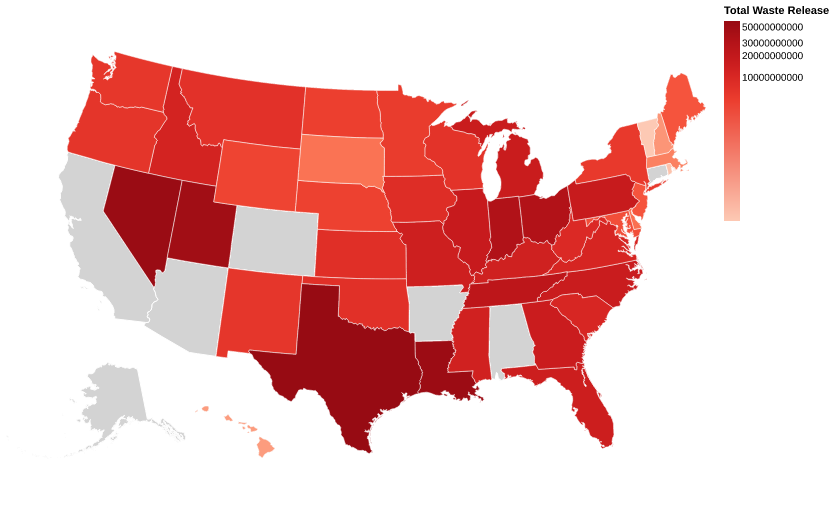
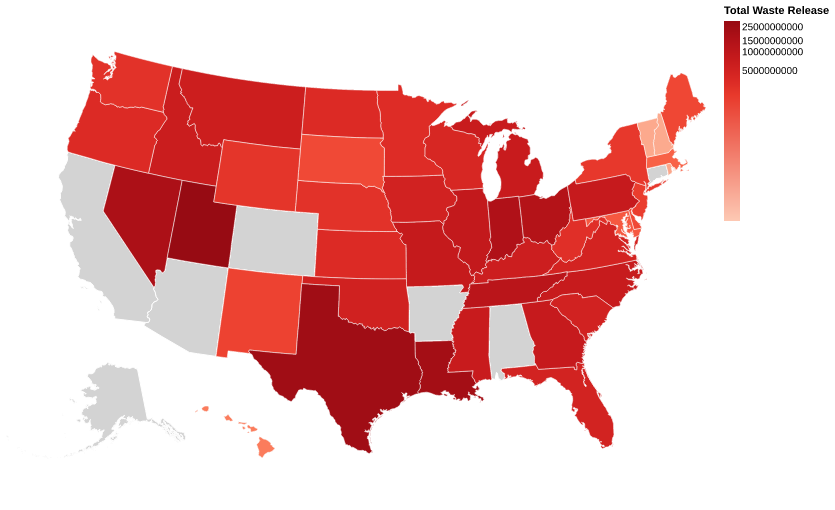
Fixed the query for Waste_By_Location, takes longer due to multijoins but outputs acceptable results.
updated queries.json with new queries.

updated the new maps.

diff --git a/Frontend/chart/total_waste_by_state.html b/Frontend/chart/total_waste_by_state.html
@@ -21,7 +21,7 @@
   <div id="vis"></div>
   <script>
     (function(vegaEmbed) {
-      var spec = {"config": {"view": {"continuousWidth": 300, "continuousHeight": 300}}, "layer": [{"mark": {"type": "geoshape", "fill": "lightgray", "stroke": "white"}, "projection": {"type": "albersUsa"}}, {"mark": {"type": "geoshape"}, "encoding": {"color": {"field": "total_release", "legend": {"format": ".0f", "tickCount": 5, "titleLimit": 500}, "scale": {"constant": 1, "scheme": "reds", "type": "symlog"}, "title": "Total Waste Release", "type": "quantitative"}, "stroke": {"condition": {"param": "param_5b36eb840a501a26", "value": "yellow", "empty": false}, "value": "white"}, "strokeWidth": {"condition": {"param": "param_5b36eb840a501a26", "value": 2, "empty": false}, "value": 0.5}, "tooltip": [{"field": "state_name", "title": "State:", "type": "nominal"}, {"field": "total_release", "title": "Total Waste:", "type": "quantitative"}]}, "name": "view_ea8d13bbc6b6c68a_1", "projection": {"type": "albersUsa"}, "transform": [{"lookup": "id", "from": {"data": {"name": "data-81f2d164197c14a456daba7c81c208c3"}, "key": "state_fips", "fields": ["total_release", "state_name"]}}]}], "data": {"url": "https://cdn.jsdelivr.net/npm/vega-datasets@v1.29.0/data/us-10m.json", "format": {"feature": "states", "type": "topojson"}}, "height": 500, "params": [{"name": "param_5b36eb840a501a26", "select": {"type": "point", "fields": ["id"], "on": "pointerover"}, "views": ["view_ea8d13bbc6b6c68a_1"]}], "width": 700, "$schema": "https://vega.github.io/schema/vega-lite/v6.4.1.json", "datasets": {"data-81f2d164197c14a456daba7c81c208c3": [{"state": "AK", "total_release": 532233754833.57996, "state_fips": "02", "state_name": "Alaska"}, {"state": "AL", "total_release": 136987657228.31, "state_fips": "01", "state_name": "Alabama"}, {"state": "AR", "total_release": 64085868025.770004, "state_fips": "05", "state_name": "Arkansas"}, {"state": "AS", "total_release": 27700447.41, "state_fips": "60", "state_name": "American Samoa"}, {"state": "AZ", "total_release": 180416415349.58, "state_fips": "04", "state_name": "Arizona"}, {"state": "CA", "total_release": 138682592239.5, "state_fips": "06", "state_name": "California"}, {"state": "CO", "total_release": 22836129673.87, "state_fips": "08", "state_name": "Colorado"}, {"state": "CT", "total_release": 8909709725.5, "state_fips": "09", "state_name": "Connecticut"}, {"state": "DE", "total_release": 11305886361.39, "state_fips": "10", "state_name": "Delaware"}, {"state": "FL", "total_release": 84528550985.77, "state_fips": "12", "state_name": "Florida"}, {"state": "GA", "total_release": 105112571457.99, "state_fips": "13", "state_name": "Georgia"}, {"state": "GU", "total_release": 269881826.91, "state_fips": "66", "state_name": "Guam"}, {"state": "HI", "total_release": 2257240297.58, "state_fips": "15", "state_name": "Hawaii"}, {"state": "IA", "total_release": 49320606559.68, "state_fips": "19", "state_name": "Iowa"}, {"state": "ID", "total_release": 50403858245.68, "state_fips": "16", "state_name": "Idaho"}, {"state": "IL", "total_release": 128312001023.8, "state_fips": "17", "state_name": "Illinois"}, {"state": "IN", "total_release": 211317573971.47, "state_fips": "18", "state_name": "Indiana"}, {"state": "KS", "total_release": 51156459367.64, "state_fips": "20", "state_name": "Kansas"}, {"state": "KY", "total_release": 87509119929.98, "state_fips": "21", "state_name": "Kentucky"}, {"state": "LA", "total_release": 315598112891.7, "state_fips": "22", "state_name": "Louisiana"}, {"state": "MA", "total_release": 13262387897.28, "state_fips": "25", "state_name": "Massachusetts"}, {"state": "MD", "total_release": 26340197606.93, "state_fips": "24", "state_name": "Maryland"}, {"state": "ME", "total_release": 21328413750.19, "state_fips": "23", "state_name": "Maine"}, {"state": "MI", "total_release": 106847164755.87, "state_fips": "26", "state_name": "Michigan"}, {"state": "MN", "total_release": 33099254583.72, "state_fips": "27", "state_name": "Minnesota"}, {"state": "MO", "total_release": 89614046895.47, "state_fips": "29", "state_name": "Missouri"}, {"state": "MP", "total_release": 4714878.9399999995, "state_fips": "69", "state_name": "Northern Mariana Islands"}, {"state": "MS", "total_release": 85789644899.63, "state_fips": "28", "state_name": "Mississippi"}, {"state": "MT", "total_release": 41372428052.87, "state_fips": "30", "state_name": "Montana"}, {"state": "NC", "total_release": 112572428335.31, "state_fips": "37", "state_name": "North Carolina"}, {"state": "ND", "total_release": 17602330986.489998, "state_fips": "38", "state_name": "North Dakota"}, {"state": "NE", "total_release": 29168432816.62, "state_fips": "31", "state_name": "Nebraska"}, {"state": "NH", "total_release": 4714879491.44, "state_fips": "33", "state_name": "New Hampshire"}, {"state": "NJ", "total_release": 26184959148.920002, "state_fips": "34", "state_name": "New Jersey"}, {"state": "NM", "total_release": 27275643831.91, "state_fips": "35", "state_name": "New Mexico"}, {"state": "NV", "total_release": 201139240871.30002, "state_fips": "32", "state_name": "Nevada"}, {"state": "NY", "total_release": 46073149555.32, "state_fips": "36", "state_name": "New York"}, {"state": "OH", "total_release": 222190815682.66998, "state_fips": "39", "state_name": "Ohio"}, {"state": "OK", "total_release": 45847945101.74, "state_fips": "40", "state_name": "Oklahoma"}, {"state": "OR", "total_release": 38858726549.07, "state_fips": "41", "state_name": "Oregon"}, {"state": "PA", "total_release": 135690447683.78, "state_fips": "42", "state_name": "Pennsylvania"}, {"state": "PR", "total_release": 8876026933.84, "state_fips": "72", "state_name": "Puerto Rico"}, {"state": "RI", "total_release": 1792343513.28, "state_fips": "44", "state_name": "Rhode Island"}, {"state": "SC", "total_release": 73383059135.17, "state_fips": "45", "state_name": "South Carolina"}, {"state": "SD", "total_release": 7356623867.3, "state_fips": "46", "state_name": "South Dakota"}, {"state": "TN", "total_release": 158551318326.74, "state_fips": "47", "state_name": "Tennessee"}, {"state": "TX", "total_release": 379906241403.04, "state_fips": "48", "state_name": "Texas"}, {"state": "UT", "total_release": 250428623641.63998, "state_fips": "49", "state_name": "Utah"}, {"state": "VA", "total_release": 73505065086.21, "state_fips": "51", "state_name": "Virginia"}, {"state": "VI", "total_release": 1737846404.5, "state_fips": "78", "state_name": "Virgin Islands"}, {"state": "VT", "total_release": 695617966.35, "state_fips": "50", "state_name": "Vermont"}, {"state": "WA", "total_release": 39144059113.39, "state_fips": "53", "state_name": "Washington"}, {"state": "WI", "total_release": 51787866628.43, "state_fips": "55", "state_name": "Wisconsin"}, {"state": "WV", "total_release": 54160682853.159996, "state_fips": "54", "state_name": "West Virginia"}, {"state": "WY", "total_release": 18072922465.01, "state_fips": "56", "state_name": "Wyoming"}]}};
+      var spec = {"config": {"view": {"continuousWidth": 300, "continuousHeight": 300}}, "layer": [{"mark": {"type": "geoshape", "fill": "lightgray", "stroke": "white"}, "projection": {"type": "albersUsa"}}, {"mark": {"type": "geoshape"}, "encoding": {"color": {"field": "total_release", "legend": {"format": ".0f", "tickCount": 5, "titleLimit": 500}, "scale": {"constant": 1, "scheme": "reds", "type": "symlog"}, "title": "Total Waste Release", "type": "quantitative"}, "stroke": {"condition": {"param": "param_5b36eb840a501a26", "value": "yellow", "empty": false}, "value": "white"}, "strokeWidth": {"condition": {"param": "param_5b36eb840a501a26", "value": 2, "empty": false}, "value": 0.5}, "tooltip": [{"field": "state_name", "title": "State:", "type": "nominal"}, {"field": "total_release", "title": "Total Waste:", "type": "quantitative"}]}, "name": "view_d0466f27e8eddf01_1", "projection": {"type": "albersUsa"}, "transform": [{"lookup": "id", "from": {"data": {"name": "data-b6bd36c32c3ac281cfcf19f331608935"}, "key": "state_fips", "fields": ["total_release", "state_name"]}}]}], "data": {"url": "https://cdn.jsdelivr.net/npm/vega-datasets@v1.29.0/data/us-10m.json", "format": {"feature": "states", "type": "topojson"}}, "height": 500, "params": [{"name": "param_5b36eb840a501a26", "select": {"type": "point", "fields": ["id"], "on": "pointerover"}, "views": ["view_d0466f27e8eddf01_1"]}], "width": 700, "$schema": "https://vega.github.io/schema/vega-lite/v6.4.1.json", "datasets": {"data-b6bd36c32c3ac281cfcf19f331608935": [{"state": "AK", "total_release": 532230827764.16, "state_fips": "02", "state_name": "Alaska"}, {"state": "AL", "total_release": 136987657228.98, "state_fips": "01", "state_name": "Alabama"}, {"state": "AR", "total_release": 64085868026.65, "state_fips": "05", "state_name": "Arkansas"}, {"state": "AS", "total_release": 26949134.580000002, "state_fips": "60", "state_name": "American Samoa"}, {"state": "AZ", "total_release": 180416415000.06, "state_fips": "04", "state_name": "Arizona"}, {"state": "CA", "total_release": 138682015890.65, "state_fips": "06", "state_name": "California"}, {"state": "CO", "total_release": 22836102878.02, "state_fips": "08", "state_name": "Colorado"}, {"state": "CT", "total_release": 8909697740.09, "state_fips": "09", "state_name": "Connecticut"}, {"state": "DE", "total_release": 11305886361.42, "state_fips": "10", "state_name": "Delaware"}, {"state": "FL", "total_release": 84528525115.64, "state_fips": "12", "state_name": "Florida"}, {"state": "GA", "total_release": 105087463798.26, "state_fips": "13", "state_name": "Georgia"}, {"state": "GU", "total_release": 269881826.88, "state_fips": "66", "state_name": "Guam"}, {"state": "HI", "total_release": 2257240297.86, "state_fips": "15", "state_name": "Hawaii"}, {"state": "IA", "total_release": 49320597530.08, "state_fips": "19", "state_name": "Iowa"}, {"state": "ID", "total_release": 50403854191.65, "state_fips": "16", "state_name": "Idaho"}, {"state": "IL", "total_release": 128307865828.54, "state_fips": "17", "state_name": "Illinois"}, {"state": "IN", "total_release": 211311647319.92, "state_fips": "18", "state_name": "Indiana"}, {"state": "KS", "total_release": 51156459367.909996, "state_fips": "20", "state_name": "Kansas"}, {"state": "KY", "total_release": 87418980984.6, "state_fips": "21", "state_name": "Kentucky"}, {"state": "LA", "total_release": 314973408620.75, "state_fips": "22", "state_name": "Louisiana"}, {"state": "MA", "total_release": 13261592209.77, "state_fips": "25", "state_name": "Massachusetts"}, {"state": "MD", "total_release": 26340197607.05, "state_fips": "24", "state_name": "Maryland"}, {"state": "ME", "total_release": 21328413750.26, "state_fips": "23", "state_name": "Maine"}, {"state": "MI", "total_release": 106837315566.24, "state_fips": "26", "state_name": "Michigan"}, {"state": "MN", "total_release": 33099246141.64, "state_fips": "27", "state_name": "Minnesota"}, {"state": "MO", "total_release": 89608048069.95, "state_fips": "29", "state_name": "Missouri"}, {"state": "MP", "total_release": 4637667.9, "state_fips": "69", "state_name": "Northern Mariana Islands"}, {"state": "MS", "total_release": 85782786784.28, "state_fips": "28", "state_name": "Mississippi"}, {"state": "MT", "total_release": 41372428053.0, "state_fips": "30", "state_name": "Montana"}, {"state": "NC", "total_release": 112572407136.39, "state_fips": "37", "state_name": "North Carolina"}, {"state": "ND", "total_release": 17602330986.54, "state_fips": "38", "state_name": "North Dakota"}, {"state": "NE", "total_release": 29168432066.84, "state_fips": "31", "state_name": "Nebraska"}, {"state": "NH", "total_release": 4714879491.53, "state_fips": "33", "state_name": "New Hampshire"}, {"state": "NJ", "total_release": 26184949977.21, "state_fips": "34", "state_name": "New Jersey"}, {"state": "NM", "total_release": 27275235420.36, "state_fips": "35", "state_name": "New Mexico"}, {"state": "NV", "total_release": 201139240871.24, "state_fips": "32", "state_name": "Nevada"}, {"state": "NY", "total_release": 46072666035.979996, "state_fips": "36", "state_name": "New York"}, {"state": "OH", "total_release": 222187331861.8, "state_fips": "39", "state_name": "Ohio"}, {"state": "OK", "total_release": 45847935174.3, "state_fips": "40", "state_name": "Oklahoma"}, {"state": "OR", "total_release": 38858726549.82, "state_fips": "41", "state_name": "Oregon"}, {"state": "PA", "total_release": 135681043580.55, "state_fips": "42", "state_name": "Pennsylvania"}, {"state": "PR", "total_release": 8875031168.8, "state_fips": "72", "state_name": "Puerto Rico"}, {"state": "RI", "total_release": 1792216513.42, "state_fips": "44", "state_name": "Rhode Island"}, {"state": "SC", "total_release": 73230911183.21, "state_fips": "45", "state_name": "South Carolina"}, {"state": "SD", "total_release": 7356613011.5199995, "state_fips": "46", "state_name": "South Dakota"}, {"state": "TN", "total_release": 158510980853.24, "state_fips": "47", "state_name": "Tennessee"}, {"state": "TX", "total_release": 379906085707.92, "state_fips": "48", "state_name": "Texas"}, {"state": "UT", "total_release": 250422064728.69, "state_fips": "49", "state_name": "Utah"}, {"state": "VA", "total_release": 73503473995.83, "state_fips": "51", "state_name": "Virginia"}, {"state": "VI", "total_release": 1691241248.29, "state_fips": "78", "state_name": "Virgin Islands"}, {"state": "VT", "total_release": 695279214.91, "state_fips": "50", "state_name": "Vermont"}, {"state": "WA", "total_release": 39144059113.46, "state_fips": "53", "state_name": "Washington"}, {"state": "WI", "total_release": 51787599043.3, "state_fips": "55", "state_name": "Wisconsin"}, {"state": "WV", "total_release": 54160682853.62, "state_fips": "54", "state_name": "West Virginia"}, {"state": "WY", "total_release": 18072921465.18, "state_fips": "56", "state_name": "Wyoming"}]}};
       var embedOpt = {"mode": "vega-lite"};
 
       function showError(el, error){

diff --git a/Frontend/chart/total_waste_by_state_2020s.html b/Frontend/chart/total_waste_by_state_2020s.html
@@ -21,7 +21,7 @@
   <div id="vis"></div>
   <script>
     (function(vegaEmbed) {
-      var spec = {"config": {"view": {"continuousWidth": 300, "continuousHeight": 300}}, "layer": [{"mark": {"type": "geoshape", "fill": "lightgray", "stroke": "white"}, "projection": {"type": "albersUsa"}}, {"mark": {"type": "geoshape"}, "encoding": {"color": {"field": "total_release", "legend": {"format": ".0f", "tickCount": 5, "titleLimit": 500}, "scale": {"constant": 1, "scheme": "reds", "type": "symlog"}, "title": "Total Waste Release", "type": "quantitative"}, "stroke": {"condition": {"param": "param_5b36eb840a501a26", "value": "yellow", "empty": false}, "value": "white"}, "strokeWidth": {"condition": {"param": "param_5b36eb840a501a26", "value": 2, "empty": false}, "value": 0.5}, "tooltip": [{"field": "state_name", "title": "State:", "type": "nominal"}, {"field": "total_release", "title": "Total Waste:", "type": "quantitative"}]}, "name": "view_31daf7cb4955fca5_1", "projection": {"type": "albersUsa"}, "transform": [{"lookup": "id", "from": {"data": {"name": "data-23fdf17f476e70f37688e117fb106c83"}, "key": "state_fips", "fields": ["total_release", "state_name"]}}]}], "data": {"url": "https://cdn.jsdelivr.net/npm/vega-datasets@v1.29.0/data/us-10m.json", "format": {"feature": "states", "type": "topojson"}}, "height": 500, "params": [{"name": "param_5b36eb840a501a26", "select": {"type": "point", "fields": ["id"], "on": "pointerover"}, "views": ["view_31daf7cb4955fca5_1"]}], "width": 700, "$schema": "https://vega.github.io/schema/vega-lite/v6.4.1.json", "datasets": {"data-23fdf17f476e70f37688e117fb106c83": [{"state": "AK", "total_release": 117756567600.0, "state_fips": "02", "state_name": "Alaska"}, {"state": "AL", "total_release": 19026882937.0, "state_fips": "01", "state_name": "Alabama"}, {"state": "AR", "total_release": 9786096281.0, "state_fips": "05", "state_name": "Arkansas"}, {"state": "AS", "total_release": 4507877.0, "state_fips": "60", "state_name": "American Samoa"}, {"state": "AZ", "total_release": 29847239138.0, "state_fips": "04", "state_name": "Arizona"}, {"state": "CA", "total_release": 8372255328.0, "state_fips": "06", "state_name": "California"}, {"state": "CO", "total_release": 4456303470.0, "state_fips": "08", "state_name": "Colorado"}, {"state": "CT", "total_release": 788857703.0, "state_fips": "09", "state_name": "Connecticut"}, {"state": "DE", "total_release": 1320776240.0, "state_fips": "10", "state_name": "Delaware"}, {"state": "FL", "total_release": 15291007399.0, "state_fips": "12", "state_name": "Florida"}, {"state": "GA", "total_release": 16252523989.0, "state_fips": "13", "state_name": "Georgia"}, {"state": "GU", "total_release": 54017154.0, "state_fips": "66", "state_name": "Guam"}, {"state": "HI", "total_release": 392202430.0, "state_fips": "15", "state_name": "Hawaii"}, {"state": "IA", "total_release": 8208561002.0, "state_fips": "19", "state_name": "Iowa"}, {"state": "ID", "total_release": 12102129411.0, "state_fips": "16", "state_name": "Idaho"}, {"state": "IL", "total_release": 17794376567.0, "state_fips": "17", "state_name": "Illinois"}, {"state": "IN", "total_release": 33444482009.0, "state_fips": "18", "state_name": "Indiana"}, {"state": "KS", "total_release": 7833626693.0, "state_fips": "20", "state_name": "Kansas"}, {"state": "KY", "total_release": 13486813372.0, "state_fips": "21", "state_name": "Kentucky"}, {"state": "LA", "total_release": 54099496278.0, "state_fips": "22", "state_name": "Louisiana"}, {"state": "MA", "total_release": 838905527.0, "state_fips": "25", "state_name": "Massachusetts"}, {"state": "MD", "total_release": 3217454824.0, "state_fips": "24", "state_name": "Maryland"}, {"state": "ME", "total_release": 2760530664.0, "state_fips": "23", "state_name": "Maine"}, {"state": "MI", "total_release": 16718904476.0, "state_fips": "26", "state_name": "Michigan"}, {"state": "MN", "total_release": 5281979154.0, "state_fips": "27", "state_name": "Minnesota"}, {"state": "MO", "total_release": 14634422429.0, "state_fips": "29", "state_name": "Missouri"}, {"state": "MP", "total_release": 916185.0, "state_fips": "69", "state_name": "Northern Mariana Islands"}, {"state": "MS", "total_release": 13447762155.0, "state_fips": "28", "state_name": "Mississippi"}, {"state": "MT", "total_release": 7197554306.0, "state_fips": "30", "state_name": "Montana"}, {"state": "NC", "total_release": 16395352689.0, "state_fips": "37", "state_name": "North Carolina"}, {"state": "ND", "total_release": 4742582818.0, "state_fips": "38", "state_name": "North Dakota"}, {"state": "NE", "total_release": 4498847143.0, "state_fips": "31", "state_name": "Nebraska"}, {"state": "NH", "total_release": 468943200.0, "state_fips": "33", "state_name": "New Hampshire"}, {"state": "NJ", "total_release": 2696943620.0, "state_fips": "34", "state_name": "New Jersey"}, {"state": "NM", "total_release": 6187975339.0, "state_fips": "35", "state_name": "New Mexico"}, {"state": "NV", "total_release": 56964801173.0, "state_fips": "32", "state_name": "Nevada"}, {"state": "NY", "total_release": 5675082339.0, "state_fips": "36", "state_name": "New York"}, {"state": "OH", "total_release": 32243876439.0, "state_fips": "39", "state_name": "Ohio"}, {"state": "OK", "total_release": 7493686781.0, "state_fips": "40", "state_name": "Oklahoma"}, {"state": "OR", "total_release": 6545992128.0, "state_fips": "41", "state_name": "Oregon"}, {"state": "PA", "total_release": 17695492211.0, "state_fips": "42", "state_name": "Pennsylvania"}, {"state": "PR", "total_release": 1326827721.0, "state_fips": "72", "state_name": "Puerto Rico"}, {"state": "RI", "total_release": 127038355.0, "state_fips": "44", "state_name": "Rhode Island"}, {"state": "SC", "total_release": 10487865952.0, "state_fips": "45", "state_name": "South Carolina"}, {"state": "SD", "total_release": 1232199823.0, "state_fips": "46", "state_name": "South Dakota"}, {"state": "TN", "total_release": 23732983406.0, "state_fips": "47", "state_name": "Tennessee"}, {"state": "TX", "total_release": 61417155429.0, "state_fips": "48", "state_name": "Texas"}, {"state": "UT", "total_release": 47924439639.0, "state_fips": "49", "state_name": "Utah"}, {"state": "VA", "total_release": 11057726499.0, "state_fips": "51", "state_name": "Virginia"}, {"state": "VI", "total_release": 236651998.0, "state_fips": "78", "state_name": "Virgin Islands"}, {"state": "VT", "total_release": 103068796.0, "state_fips": "50", "state_name": "Vermont"}, {"state": "WA", "total_release": 5996482519.0, "state_fips": "53", "state_name": "Washington"}, {"state": "WI", "total_release": 6861516645.0, "state_fips": "55", "state_name": "Wisconsin"}, {"state": "WV", "total_release": 9343474232.0, "state_fips": "54", "state_name": "West Virginia"}, {"state": "WY", "total_release": 4196075281.0, "state_fips": "56", "state_name": "Wyoming"}]}};
+      var spec = {"config": {"view": {"continuousWidth": 300, "continuousHeight": 300}}, "layer": [{"mark": {"type": "geoshape", "fill": "lightgray", "stroke": "white"}, "projection": {"type": "albersUsa"}}, {"mark": {"type": "geoshape"}, "encoding": {"color": {"field": "total_release", "legend": {"format": ".0f", "tickCount": 5, "titleLimit": 500}, "scale": {"constant": 1, "scheme": "reds", "type": "symlog"}, "title": "Total Waste Release", "type": "quantitative"}, "stroke": {"condition": {"param": "param_5b36eb840a501a26", "value": "yellow", "empty": false}, "value": "white"}, "strokeWidth": {"condition": {"param": "param_5b36eb840a501a26", "value": 2, "empty": false}, "value": 0.5}, "tooltip": [{"field": "state_name", "title": "State:", "type": "nominal"}, {"field": "total_release", "title": "Total Waste:", "type": "quantitative"}]}, "name": "view_f3181c249cfd358b_1", "projection": {"type": "albersUsa"}, "transform": [{"lookup": "id", "from": {"data": {"name": "data-5b20b2e67c415a5cdab85e125888b9c1"}, "key": "state_fips", "fields": ["total_release", "state_name"]}}]}], "data": {"url": "https://cdn.jsdelivr.net/npm/vega-datasets@v1.29.0/data/us-10m.json", "format": {"feature": "states", "type": "topojson"}}, "height": 500, "params": [{"name": "param_5b36eb840a501a26", "select": {"type": "point", "fields": ["id"], "on": "pointerover"}, "views": ["view_f3181c249cfd358b_1"]}], "width": 700, "$schema": "https://vega.github.io/schema/vega-lite/v6.4.1.json", "datasets": {"data-5b20b2e67c415a5cdab85e125888b9c1": [{"state": "AK", "total_release": 103341702722.16, "state_fips": "02", "state_name": "Alaska"}, {"state": "AL", "total_release": 12197609289.46, "state_fips": "01", "state_name": "Alabama"}, {"state": "AR", "total_release": 6450160762.22, "state_fips": "05", "state_name": "Arkansas"}, {"state": "AS", "total_release": 7039293.82, "state_fips": "60", "state_name": "American Samoa"}, {"state": "AZ", "total_release": 13147023149.92, "state_fips": "04", "state_name": "Arizona"}, {"state": "CA", "total_release": 5524185701.94, "state_fips": "06", "state_name": "California"}, {"state": "CO", "total_release": 2828945329.03, "state_fips": "08", "state_name": "Colorado"}, {"state": "CT", "total_release": 264621479.99, "state_fips": "09", "state_name": "Connecticut"}, {"state": "DE", "total_release": 1227760372.96, "state_fips": "10", "state_name": "Delaware"}, {"state": "FL", "total_release": 4932101096.0199995, "state_fips": "12", "state_name": "Florida"}, {"state": "GA", "total_release": 7612953309.24, "state_fips": "13", "state_name": "Georgia"}, {"state": "GU", "total_release": 48578116.49, "state_fips": "66", "state_name": "Guam"}, {"state": "HI", "total_release": 262608805.67, "state_fips": "15", "state_name": "Hawaii"}, {"state": "IA", "total_release": 5178057707.87, "state_fips": "19", "state_name": "Iowa"}, {"state": "ID", "total_release": 6616262452.48, "state_fips": "16", "state_name": "Idaho"}, {"state": "IL", "total_release": 8424159171.72, "state_fips": "17", "state_name": "Illinois"}, {"state": "IN", "total_release": 15906088823.24, "state_fips": "18", "state_name": "Indiana"}, {"state": "KS", "total_release": 3468249308.57, "state_fips": "20", "state_name": "Kansas"}, {"state": "KY", "total_release": 6243881278.19, "state_fips": "21", "state_name": "Kentucky"}, {"state": "LA", "total_release": 21989717186.22, "state_fips": "22", "state_name": "Louisiana"}, {"state": "MA", "total_release": 581010272.44, "state_fips": "25", "state_name": "Massachusetts"}, {"state": "MD", "total_release": 762048208.96, "state_fips": "24", "state_name": "Maryland"}, {"state": "ME", "total_release": 1315068104.64, "state_fips": "23", "state_name": "Maine"}, {"state": "MI", "total_release": 7152741039.68, "state_fips": "26", "state_name": "Michigan"}, {"state": "MN", "total_release": 3187452698.75, "state_fips": "27", "state_name": "Minnesota"}, {"state": "MO", "total_release": 7897072308.150001, "state_fips": "29", "state_name": "Missouri"}, {"state": "MP", "total_release": 458568.54, "state_fips": "69", "state_name": "Northern Mariana Islands"}, {"state": "MS", "total_release": 7319341348.37, "state_fips": "28", "state_name": "Mississippi"}, {"state": "MT", "total_release": 6343986272.780001, "state_fips": "30", "state_name": "Montana"}, {"state": "NC", "total_release": 7450509032.44, "state_fips": "37", "state_name": "North Carolina"}, {"state": "ND", "total_release": 3426778053.31, "state_fips": "38", "state_name": "North Dakota"}, {"state": "NE", "total_release": 2578815366.51, "state_fips": "31", "state_name": "Nebraska"}, {"state": "NH", "total_release": 58536865.46, "state_fips": "33", "state_name": "New Hampshire"}, {"state": "NJ", "total_release": 1783885660.68, "state_fips": "34", "state_name": "New Jersey"}, {"state": "NM", "total_release": 1492439858.35, "state_fips": "35", "state_name": "New Mexico"}, {"state": "NV", "total_release": 17675392217.37, "state_fips": "32", "state_name": "Nevada"}, {"state": "NY", "total_release": 2108909983.96, "state_fips": "36", "state_name": "New York"}, {"state": "OH", "total_release": 14218340249.8, "state_fips": "39", "state_name": "Ohio"}, {"state": "OK", "total_release": 5342623190.98, "state_fips": "40", "state_name": "Oklahoma"}, {"state": "OR", "total_release": 3486918521.38, "state_fips": "41", "state_name": "Oregon"}, {"state": "PA", "total_release": 7705952482.72, "state_fips": "42", "state_name": "Pennsylvania"}, {"state": "PR", "total_release": 497705622.16, "state_fips": "72", "state_name": "Puerto Rico"}, {"state": "RI", "total_release": 66185155.45, "state_fips": "44", "state_name": "Rhode Island"}, {"state": "SC", "total_release": 5103636997.17, "state_fips": "45", "state_name": "South Carolina"}, {"state": "SD", "total_release": 1227543673.97, "state_fips": "46", "state_name": "South Dakota"}, {"state": "TN", "total_release": 11475741406.550001, "state_fips": "47", "state_name": "Tennessee"}, {"state": "TX", "total_release": 24497803394.670002, "state_fips": "48", "state_name": "Texas"}, {"state": "UT", "total_release": 31498359805.670002, "state_fips": "49", "state_name": "Utah"}, {"state": "VA", "total_release": 4896870205.55, "state_fips": "51", "state_name": "Virginia"}, {"state": "VI", "total_release": 20068354.26, "state_fips": "78", "state_name": "Virgin Islands"}, {"state": "VT", "total_release": 60384200.010000005, "state_fips": "50", "state_name": "Vermont"}, {"state": "WA", "total_release": 2611115083.5, "state_fips": "53", "state_name": "Washington"}, {"state": "WI", "total_release": 4101510871.9, "state_fips": "55", "state_name": "Wisconsin"}, {"state": "WV", "total_release": 2861366271.6, "state_fips": "54", "state_name": "West Virginia"}, {"state": "WY", "total_release": 2346258226.24, "state_fips": "56", "state_name": "Wyoming"}]}};
       var embedOpt = {"mode": "vega-lite"};
 
       function showError(el, error){

diff --git a/Frontend/save_queries_to_json.py b/Frontend/save_queries_to_json.py
@@ -3,53 +3,55 @@ import json
 queries = {
     "Waste_By_Location":
  """
-    WITH release_totals AS (
+        WITH waste_data AS (
             SELECT 
-                trf.tri_facility_id,
-                ROUND(SUM(tft.total_offsite_release::NUMERIC + tft.total_onsite_release::NUMERIC), 2) AS Total_Release
-            FROM tri_form_total tft
-            JOIN tri_reporting_form trf ON tft.doc_ctrl_num = trf.doc_ctrl_num
-            GROUP BY trf.tri_facility_id
-        ),
-    merge_release_totals AS(
-        SELECT
-            tfh.city,
-            MAX(tfh.county) as county,
-            tfh.state,
-            rt.Total_Release
-        FROM release_totals rt
-        JOIN tri_facility_history tfh ON rt.tri_facility_id = tfh.tri_facility_id
-        GROUP BY tfh.city, tfh.state, rt.Total_Release
-        ORDER BY rt.Total_Release DESC
-    )
-    Select * From merge_release_totals;
+                tfh.city,
+                tfh.county,
+                tfh.state,
+                trf.doc_ctrl_num,
+                trf.reporting_year,
+                ROUND(SUM(tft.total_offsite_release::NUMERIC + tft.total_onsite_release::NUMERIC), 2) AS total_release
+            FROM tri_reporting_form trf
+            JOIN tri_facility_history tfh ON trf.tri_facility_id = tfh.tri_facility_id
+            JOIN tri_form_total tft ON trf.doc_ctrl_num = tft.doc_ctrl_num
+            GROUP BY tfh.city, tfh.county, tfh.state, trf.doc_ctrl_num, trf.reporting_year
+            Order By total_release DESC
+        )
+        SELECT 
+            city,
+            county,
+            state,
+            SUM(total_release) AS total_release
+        FROM waste_data
+        GROUP BY city, county, state
+        ORDER BY total_release DESC;
 """,
     
     "Waste_By_Location_2020s": 
     """
-        WITH reports_after_2020 AS(
-            Select trf.doc_ctrl_num, tfh.city, tfh.county, tfh.state
+        WITH waste_data AS (
+            SELECT 
+                tfh.city,
+                tfh.county,
+                tfh.state,
+                trf.doc_ctrl_num,
+                trf.reporting_year,
+                ROUND(SUM(tft.total_offsite_release::NUMERIC + tft.total_onsite_release::NUMERIC), 2) AS total_release
             FROM tri_reporting_form trf
             JOIN tri_facility_history tfh ON trf.tri_facility_id = tfh.tri_facility_id
-            Where tfh.create_date >= '2020-01-01'
-        ),
-        total_waste_after_2020 AS(
-            Select trf.doc_ctrl_num,
-            ROUND(SUM(tft.total_offsite_release::NUMERIC + tft.total_onsite_release::NUMERIC),2) AS Total_Release
-            From tri_reporting_form trf
-            Join tri_form_total tft ON trf.doc_ctrl_num = tft.doc_ctrl_num
-            Where trf.reporting_year >= 2020
-            Group BY trf.doc_ctrl_num
+            JOIN tri_form_total tft ON trf.doc_ctrl_num = tft.doc_ctrl_num
+            WHERE trf.reporting_year >= 2020
+            GROUP BY tfh.city, tfh.county, tfh.state, trf.doc_ctrl_num, trf.reporting_year
+            Order By total_release DESC
         )
-        Select
-        ra.city,
-        ra.county,
-        ra.state,
-        SUM(twa.Total_Release) AS Total_Release
-        FROM reports_after_2020 ra 
-        JOIN total_waste_after_2020 twa ON ra.doc_ctrl_num = twa.doc_ctrl_num
-        Group BY ra.city, ra.county, ra.state
-        Order By Total_Release DESC;
+        SELECT 
+            city,
+            county,
+            state,
+            SUM(total_release) AS total_release
+        FROM waste_data
+        GROUP BY city, county, state
+        ORDER BY total_release DESC;
     """,
 
     "Total_Waste_Throughout_top_10": """

diff --git a/Frontend/TRI_analysis.py b/Frontend/TRI_analysis.py
@@ -69,10 +69,15 @@ def total_waste_by_state_throughout_or_After_2020(choice = ""):
         state_waste_df = pd.read_sql(queries["Waste_By_Location"], con=engine)
     print(state_waste_df.columns.to_list())
     state_waste_df = state_waste_df.drop(columns = ['city', 'county'])
-    state_waste_df = state_waste_df.groupby('state').agg({'total_release' : 'sum'}).reset_index()
+    state_waste_df = state_waste_df.drop_duplicates()
+
+    state_waste_df = state_waste_df.groupby('state')['total_release'].sum().reset_index()
 
     state_waste_df['state_fips'] = state_waste_df['state'].apply(lambda x:states.lookup(str(x)).fips if states.lookup(str(x)) else pd.NA)
     state_waste_df['state_name'] = state_waste_df['state_fips'].apply(lambda x:states.lookup(str(x)).name if states.lookup(str(x)) else pd.NA)
+    with pd.option_context('display.max_rows', None):
+        print(state_waste_df)
+    
     state_waste_df = state_waste_df.dropna()
     us_states = alt.topo_feature(data.us_10m.url, feature = 'states')
     